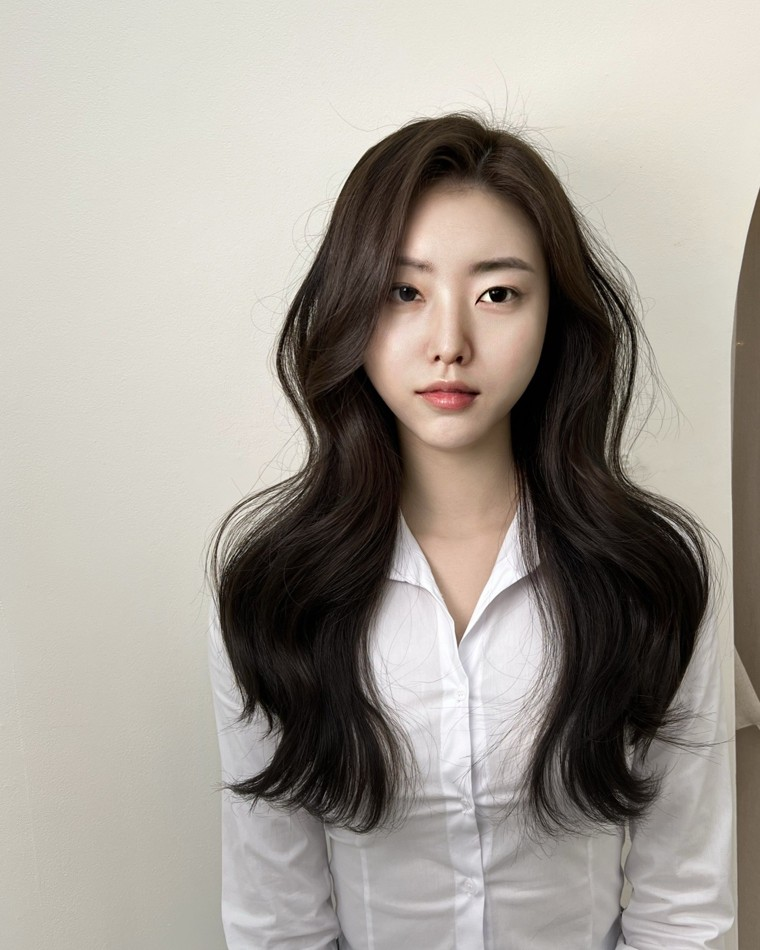
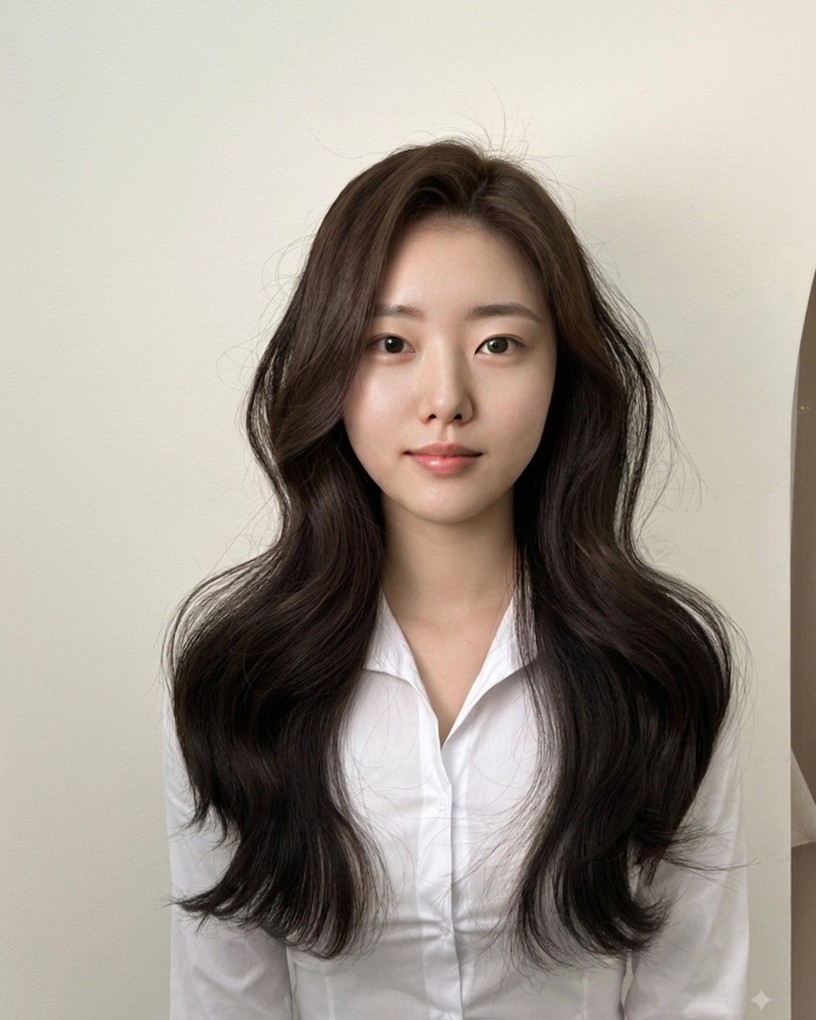
feat: 화면 문구·이름 체계 통일과 랜딩 슬라이더 실동작 (#112)
* feat: 화면 이름·문구를 랜딩 카피 기준으로 통일

8/17 원장님 확정 6건 반영:
- 기능 이름 통일 — 헤어 모델 만들기 · 간단 블로그 글쓰기 · 간편 숏츠 만들기
  (nav · 랜딩 챕터 · 얼굴 교체 화면 h1. 숏츠·블로그 화면 본문은 소유권 밖이라 전달)
- 3규격 이름을 화면 기준으로 랜딩에 적용, 권장·릴스 수식은 배지로 분리
- 가상 인물·가상 얼굴 → AI 모델 통일
- 인트로를 혜택 선행으로 (빠르게·간편·정확·안전 어휘)
- '무료' 제거, CTA는 체험(하기) 계열로 통일

* fix: 메뉴명은 AI 000 으로 되돌리고 폰 모델 목록에 원형 얼굴을 더함

- 역할 정리(8/17 원장님): 메뉴 = 기존 AI 000 이름, 대제목·랜딩 챕터 = 새 네이밍
- 폰에서 32줄이 이름만으로는 얼굴로 구분이 안 됨 — 인스타 프로필처럼
  원형 썸네일을 이름 옆에 표시 (sm 이상은 기존 카드형 유지)

* feat: 랜딩 비포/애프터를 실제로 움직이는 슬라이더로 교체

장식이던 손잡이가 동작 기대만 만들고 있었다. 얼굴 교체 화면과 같은
BeforeAfterSlider 를 그대로 재사용해 진짜로 갈라 볼 수 있게 한다.

원본 자리는 제미나이로 만든 합성 인물(실존 인물 아님)이다. 실제 시술 원본은
모델 동의 범위 때문에 레포에 넣을 수 없다 — salon-testset/사용조건.txt 조건 유지.

* feat: 랜딩 슬라이더 사진 짝을 실서버 산출물로 교체 — 픽셀 싱크 확보

- 원본: 제미나이 합성 인물(실존 아님) → 레포 안전. 실제 시술 원본은
  모델 동의 범위 때문에 못 넣는다(salon-testset/사용조건.txt)
- 결과: 그 원본을 실서버 얼굴 교체로 돌린 산출물 (ref-01, seed 1157062057)
- 싱크 해법: 서버가 4:5로 자를 때 얼굴 기준 재프레이밍을 하므로 원본을
  미리 4:5 중앙 크롭으로 보냈다. 입력이 4:5면 재프레이밍이 없어
  슬라이더의 두 장이 픽셀 단위로 겹친다

---------

diff --git a/frontend/src/app/page.tsx b/frontend/src/app/page.tsx
@@ -9,6 +9,7 @@ import {
   Scissors,
   ShieldCheck,
 } from "lucide-react";
+import { BeforeAfterSlider } from "@/components/before-after";
 import { buttonVariants } from "@/components/ui/button";
 import { Card, CardContent } from "@/components/ui/card";
 
@@ -16,8 +17,13 @@ import { Card, CardContent } from "@/components/ui/card";
  * 랜딩 홈 (2026-08-15 시안 확정, docs/시안/landing.html).
  *
  * - 히어로 카피는 원장님 확정안: 비교 대상(모델 작업)을 아는 현업의 언어를 그대로 쓴다
- * - 사진은 이 서비스로 실제 시술 사진을 얼굴 교체해 만든 결과물(landing-hero-swap) —
- *   원본 사진은 레포에 넣지 않는 조건이고, 결과물은 공유 가능 범위다
+ * - 사진 짝(8/17 교체): 원본 자리는 제미나이로 만든 합성 인물(landing-hero-before,
+ *   실존 인물 아님), 결과는 그 사진을 실서버 얼굴 교체(ref-01, seed 1157062057)로
+ *   돌린 산출물(landing-hero-swap)이다. 실제 시술 원본은 모델 동의 범위 때문에
+ *   레포에 넣을 수 없다 — salon-testset/사용조건.txt
+ * - 짝의 싱크: 서버가 4:5로 자를 때 얼굴 기준으로 재프레이밍하므로, 원본을 그대로
+ *   보내면 결과와 배율이 어긋난다. 그래서 미리 4:5 중앙 크롭으로 잘라 보냈다 —
+ *   입력이 이미 4:5면 재프레이밍이 사실상 없어 화면의 두 장이 픽셀 단위로 겹친다
  * - 색은 전부 토큰이라 화면 색 6종을 그대로 따라간다
  */
 
@@ -27,7 +33,8 @@ const HEADING = "tracking-tight break-keep";
 
 const TRUST_ITEMS = [
   ["AI 모델로 교체", "머리는 그대로"],
-  ["SNS 3규격", "피드 · 정방형 · 스토리 한 번에"],
+  // 규격 이름은 얼굴 교체 화면의 RATIO 표기와 같은 어휘를 쓴다 (8/17 확정)
+  ["SNS 3규격", "피드 · 피드 세로 · 스토리 한 번에"],
   ["폰에서 바로", "촬영 · 외주 없이"],
 ] as const;
 
@@ -82,10 +89,11 @@ export default function Home() {
           <p className="mt-4 max-w-xl text-sm leading-7 text-muted-foreground md:text-base">
             시술 사진 한 장이면, 오늘 바로 올릴 피드 이미지가 나옵니다.
           </p>
+          {/* "무료"는 쓰지 않는다(8/17 원장님) — 체험 계열 동사로 통일 */}
           <div className="mt-6 flex flex-wrap gap-3">
-            <Link href="/face-swap" className={buttonVariants({ size: "lg" })}>무료로 시작하기</Link>
+            <Link href="/face-swap" className={buttonVariants({ size: "lg" })}>바로 체험하기</Link>
             <Link href="/face-swap" className={buttonVariants({ size: "lg", variant: "outline" })}>
-              📷 예시 사진으로 체험
+              📷 예시 사진으로 체험하기
             </Link>
           </div>
         </div>
@@ -125,14 +133,14 @@ export default function Home() {
       {/* 01 얼굴 교체 */}
       <section className="grid items-center gap-8 py-14 lg:grid-cols-2 lg:gap-14 lg:py-20">
         <div>
-          <ChapterHeading num="01 · 얼굴 교체" icon={Scissors}>
+          <ChapterHeading num="01 · 헤어 모델 만들기" icon={Scissors}>
             모델 섭외 없이,
             <br />
             시술 사진이 홍보 이미지로
           </ChapterHeading>
           <p className="mt-4 text-sm leading-7 text-muted-foreground">
-            얼굴은 AI 모델로 교체, 공들인 머리 모양·색은 그대로.
-            32가지 얼굴 중 골라 자연스럽게 완성됩니다.
+            얼굴은 AI 모델로 교체, 공들인 머리 모양·색은 그대로 정확하게.
+            32가지 AI 모델 중 골라 몇 초 만에 자연스럽게 완성됩니다.
           </p>
           <Steps items={[
             "시술 사진 올리기",
@@ -140,26 +148,19 @@ export default function Home() {
             "SNS 3규격으로 저장",
           ]} />
           <Link href="/face-swap" className={buttonVariants({ variant: "outline", className: "mt-6" })}>
-            얼굴 교체 해보기
+            헤어 모델 체험하기
             <ArrowRight className="h-4 w-4" />
           </Link>
         </div>
 
-        {/* 확인 슬라이더 은유 — 사진 위 손잡이. 실제 얼굴 교체 결과물 위에 그린다 */}
-        <div className="relative mx-auto aspect-[4/5] w-full max-w-sm overflow-hidden rounded-2xl border shadow-lg">
-          <Image
-            src="/sample-assets/landing-hero-swap.jpg"
-            alt="원본과 결과를 슬라이더로 겹쳐 확인하는 화면 예시"
-            fill
-            sizes="(min-width: 1024px) 24rem, 90vw"
-            className="object-cover"
+        {/* 진짜로 움직이는 확인 슬라이더 — 얼굴 교체 화면과 같은 컴포넌트, 위 사진 짝 사용 */}
+        <div className="mx-auto w-full max-w-sm shadow-lg">
+          <BeforeAfterSlider
+            beforeUrl="/sample-assets/landing-hero-before.jpg"
+            afterUrl="/sample-assets/landing-hero-swap.jpg"
+            beforeLabel="원본"
+            afterLabel="교체 후"
           />
-          <div className="absolute inset-y-0 left-1/2 w-px bg-white/85 shadow-[0_0_0_1px_rgba(0,0,0,.2)]" />
-          <span className="absolute top-1/2 left-1/2 flex h-9 w-9 -translate-x-1/2 -translate-y-1/2 items-center justify-center rounded-full bg-white text-sm text-black shadow-md">
-            ↔
-          </span>
-          <span className="absolute bottom-3 left-3 rounded-full bg-black/55 px-2 py-1 text-[10px] text-white">원본</span>
-          <span className="absolute right-3 bottom-3 rounded-full bg-black/55 px-2 py-1 text-[10px] text-white">교체 후 · AI 생성</span>
         </div>
       </section>
 
@@ -180,14 +181,14 @@ export default function Home() {
           </CardContent>
         </Card>
         <div>
-          <ChapterHeading num="02 · 블로그 글쓰기" icon={NotebookPen}>
+          <ChapterHeading num="02 · 간단 블로그 글쓰기" icon={NotebookPen}>
             시술 기록만 남기면,
             <br />
             블로그 글이 완성됩니다
           </ChapterHeading>
           <p className="mt-4 text-sm leading-7 text-muted-foreground">
-            빈칸만 채우면 도입부터 마무리까지 완성된 글이 나옵니다.
-            내 말투로 고쳐 쓰는 것도 자유롭게.
+            빈칸만 채우면 도입부터 마무리까지 완성된 글이 빠르게 나옵니다.
+            내 말투로 고쳐 쓰는 것도 간편하게.
           </p>
           <Steps items={[
             "시술 정보 입력",
@@ -195,7 +196,7 @@ export default function Home() {
             "복사해서 블로그에 붙여넣기",
           ]} />
           <Link href="/generate/blog" className={buttonVariants({ variant: "outline", className: "mt-6" })}>
-            블로그 글 써보기
+            블로그 글 체험하기
             <ArrowRight className="h-4 w-4" />
           </Link>
         </div>
@@ -204,7 +205,7 @@ export default function Home() {
       {/* 03 숏츠 */}
       <section className="grid items-center gap-8 py-14 lg:grid-cols-2 lg:gap-14 lg:py-20">
         <div>
-          <ChapterHeading num="03 · 영상 편집" icon={Clapperboard}>
+          <ChapterHeading num="03 · 간편 숏츠 만들기" icon={Clapperboard}>
             시술 영상 클립을 이어,
             <br />
             숏츠 한 편으로
@@ -219,7 +220,7 @@ export default function Home() {
             "숏츠로 내보내기",
           ]} />
           <Link href="/generate/shorts" className={buttonVariants({ variant: "outline", className: "mt-6" })}>
-            숏츠 만들어보기
+            숏츠 체험하기
             <ArrowRight className="h-4 w-4" />
           </Link>
         </div>
@@ -251,7 +252,7 @@ export default function Home() {
         <h2 className={`${HEADING} text-2xl font-semibold text-balance`}>오늘 시술한 그 머리, 오늘 올리세요</h2>
         <p className="mt-2 text-sm text-muted-foreground">사진 한 장이면 됩니다.</p>
         <Link href="/face-swap" className={buttonVariants({ size: "lg", className: "mt-5" })}>
-          무료로 시작하기
+          바로 체험하기
         </Link>
       </section>
 

diff --git a/frontend/src/components/face-option-form.tsx b/frontend/src/components/face-option-form.tsx
@@ -312,8 +312,17 @@ function ReferencePicker({
                   className="hidden aspect-square w-full object-cover sm:block"
                 />
                 {/* label 에 국적이 이미 들어 있어("한국인 20대 여성 A") 따로 표시하지
-                    않는다 — #84 8.1에서 중복 표시는 프론트가 정리하기로 했다. */}
-                <span className="flex min-h-12 items-center px-4 text-sm sm:min-h-0 sm:px-2 sm:py-1.5 sm:text-xs sm:text-muted-foreground">
+                    않는다 — #84 8.1에서 중복 표시는 프론트가 정리하기로 했다.
+                    폰에서는 인스타 프로필처럼 원형 얼굴을 이름 옆에 둔다(8/17 원장님) —
+                    32줄을 이름만으로는 얼굴로 구분해 고를 수 없다. */}
+                <span className="flex min-h-12 items-center gap-3 px-3 text-sm sm:min-h-0 sm:px-2 sm:py-1.5 sm:text-xs sm:text-muted-foreground">
+                  {/* eslint-disable-next-line @next/next/no-img-element */}
+                  <img
+                    src={face.thumbnail_url}
+                    alt=""
+                    aria-hidden
+                    className="h-9 w-9 shrink-0 rounded-full border border-border object-cover sm:hidden"
+                  />
                   {face.label}
                 </span>
               </button>
@@ -346,7 +355,7 @@ export function FaceOptionForm({
           aria-pressed={values.mode === "reference"}
           onClick={() => set({ mode: "reference" })}
         >
-          가상 얼굴 고르기
+          AI 모델 고르기
         </Button>
         <Button
           type="button"
@@ -436,7 +445,7 @@ export function FaceOptionForm({
 
           <p className="text-xs text-muted-foreground">
             사진이 바뀌면 같은 옵션이어도 다른 얼굴이 나옵니다. 한 게시물에 여러 장을 쓰실 때는
-            &ldquo;가상 얼굴 고르기&rdquo;를 쓰시는 편이 좋습니다.
+            &ldquo;AI 모델 고르기&rdquo;를 쓰시는 편이 좋습니다.
           </p>
         </div>
       )}

diff --git a/frontend/src/lib/nav.ts b/frontend/src/lib/nav.ts
@@ -20,7 +20,8 @@ export type NavItem = {
 };
 
 // MVP 3기능(Discussion #23)과 홈만 노출한다.
-// 라벨은 홈 화면 카드와 같은 문구를 쓴다 — 두 곳의 이름이 다르면 같은 기능을 다른 기능으로 읽는다.
+// 8/17 원장님 확정 — 역할을 나눈다: 메뉴는 기존 "AI 000" 이름, 기능 화면 대제목과
+// 랜딩 챕터는 새 네이밍(헤어 모델 만들기 · 간단 블로그 글쓰기 · 간편 숏츠 만들기).
 export const NAV_ITEMS: NavItem[] = [
   { href: "/", label: "홈", icon: Home },
   { href: "/face-swap", label: "AI 모델로 얼굴 변경", icon: Scissors },
